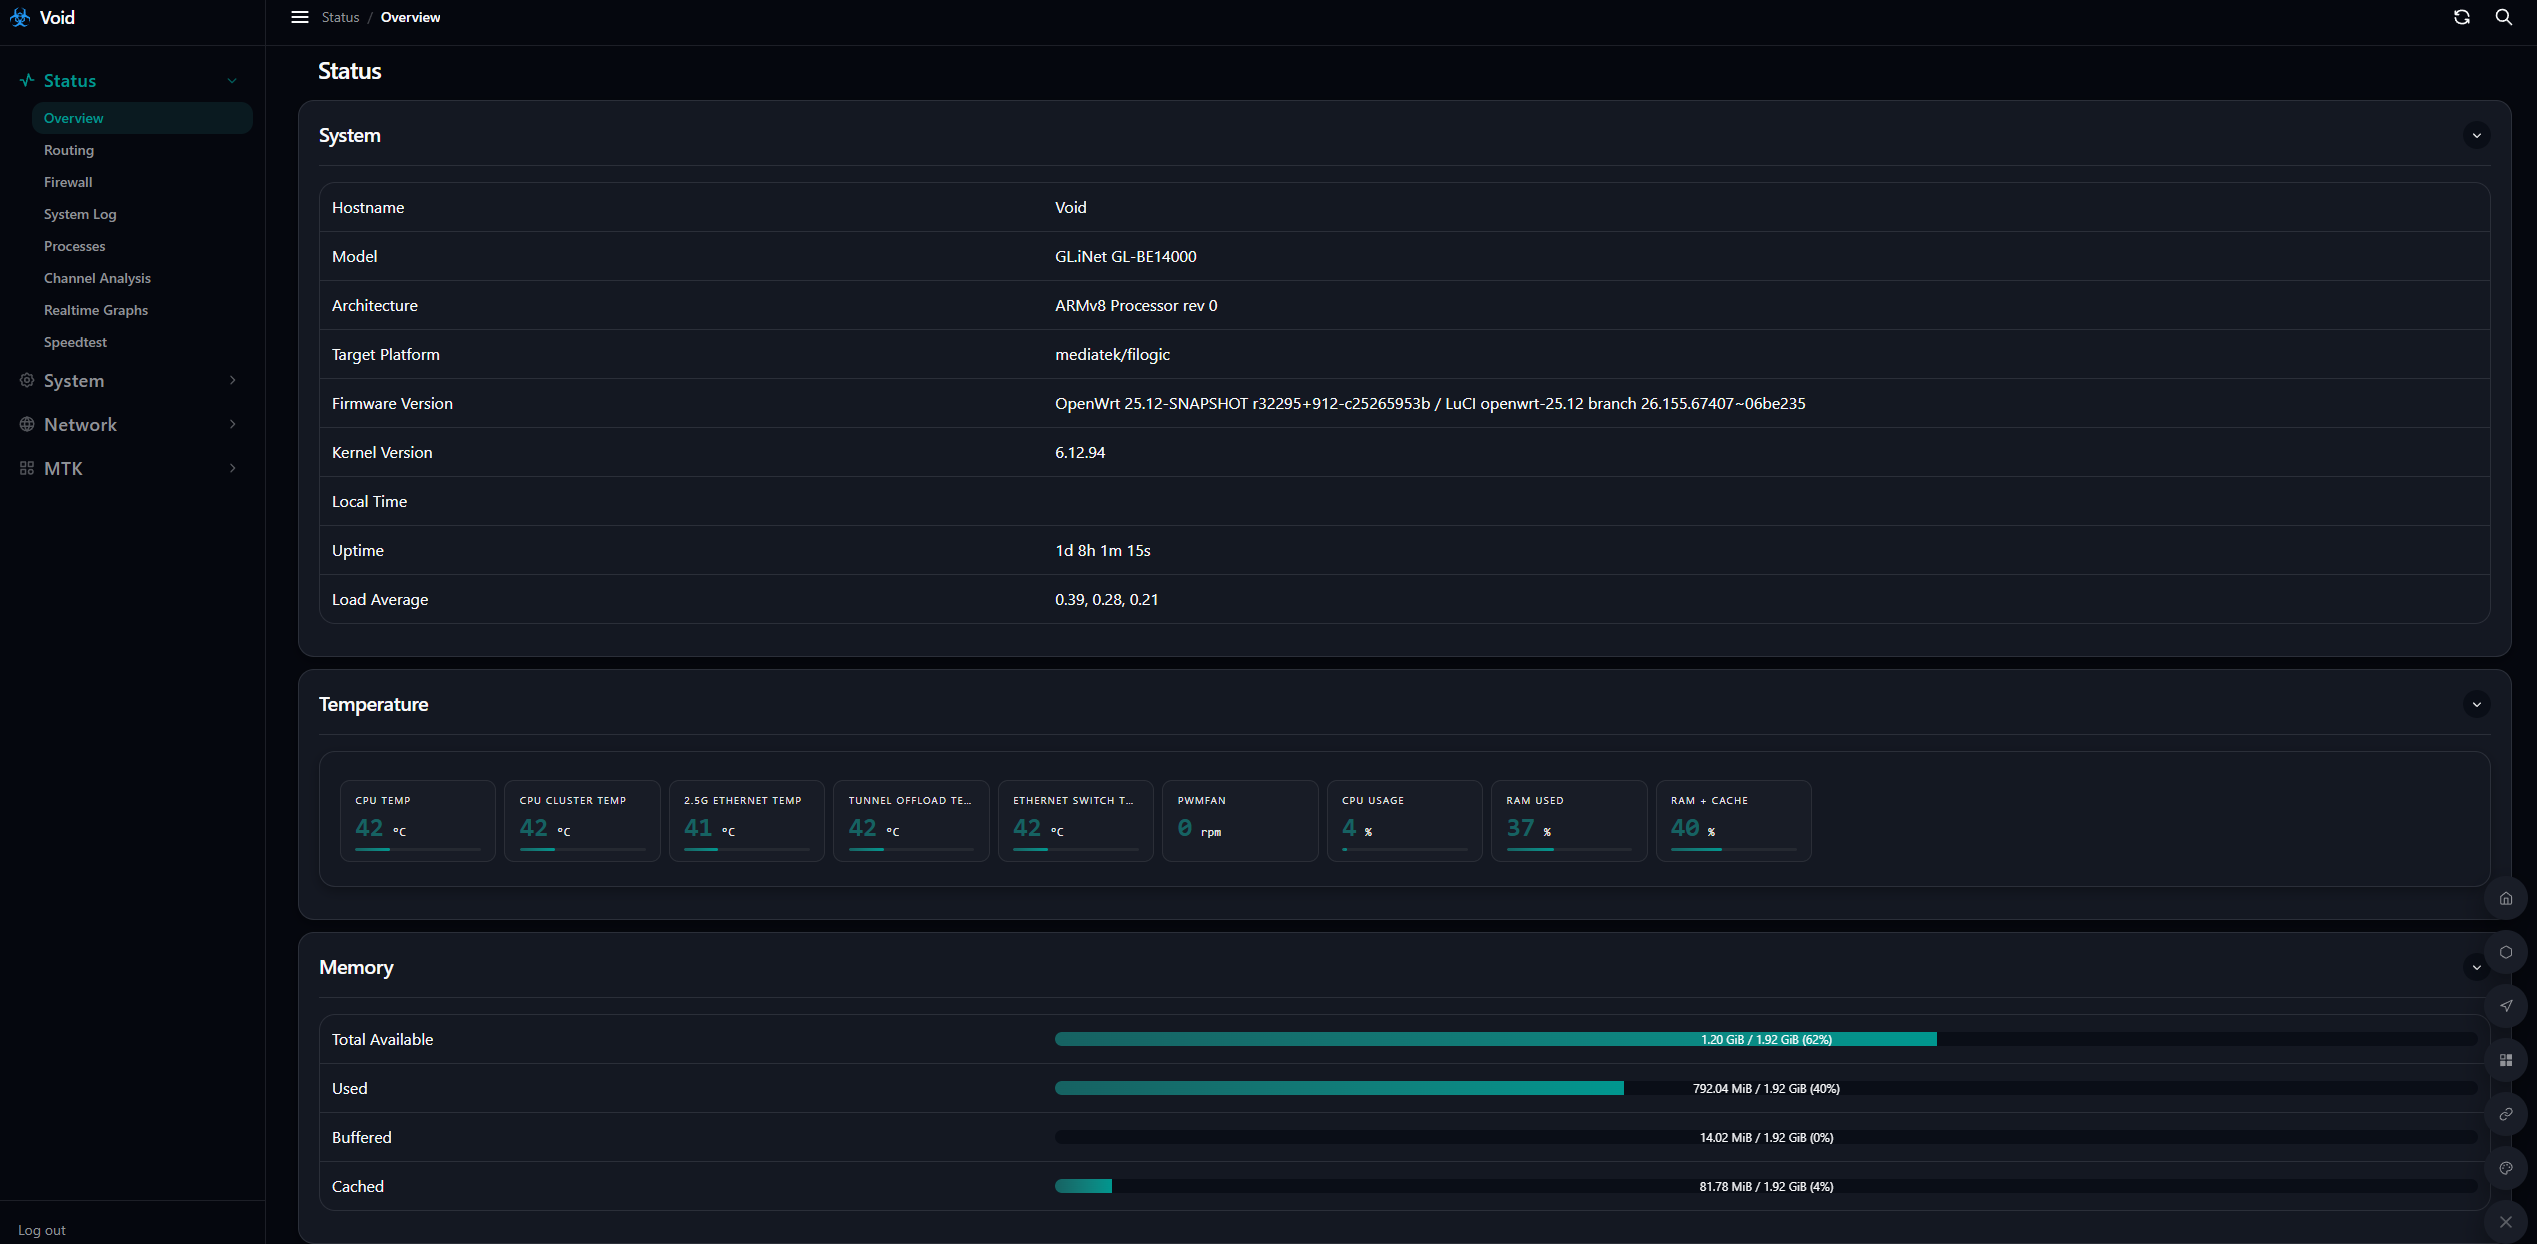
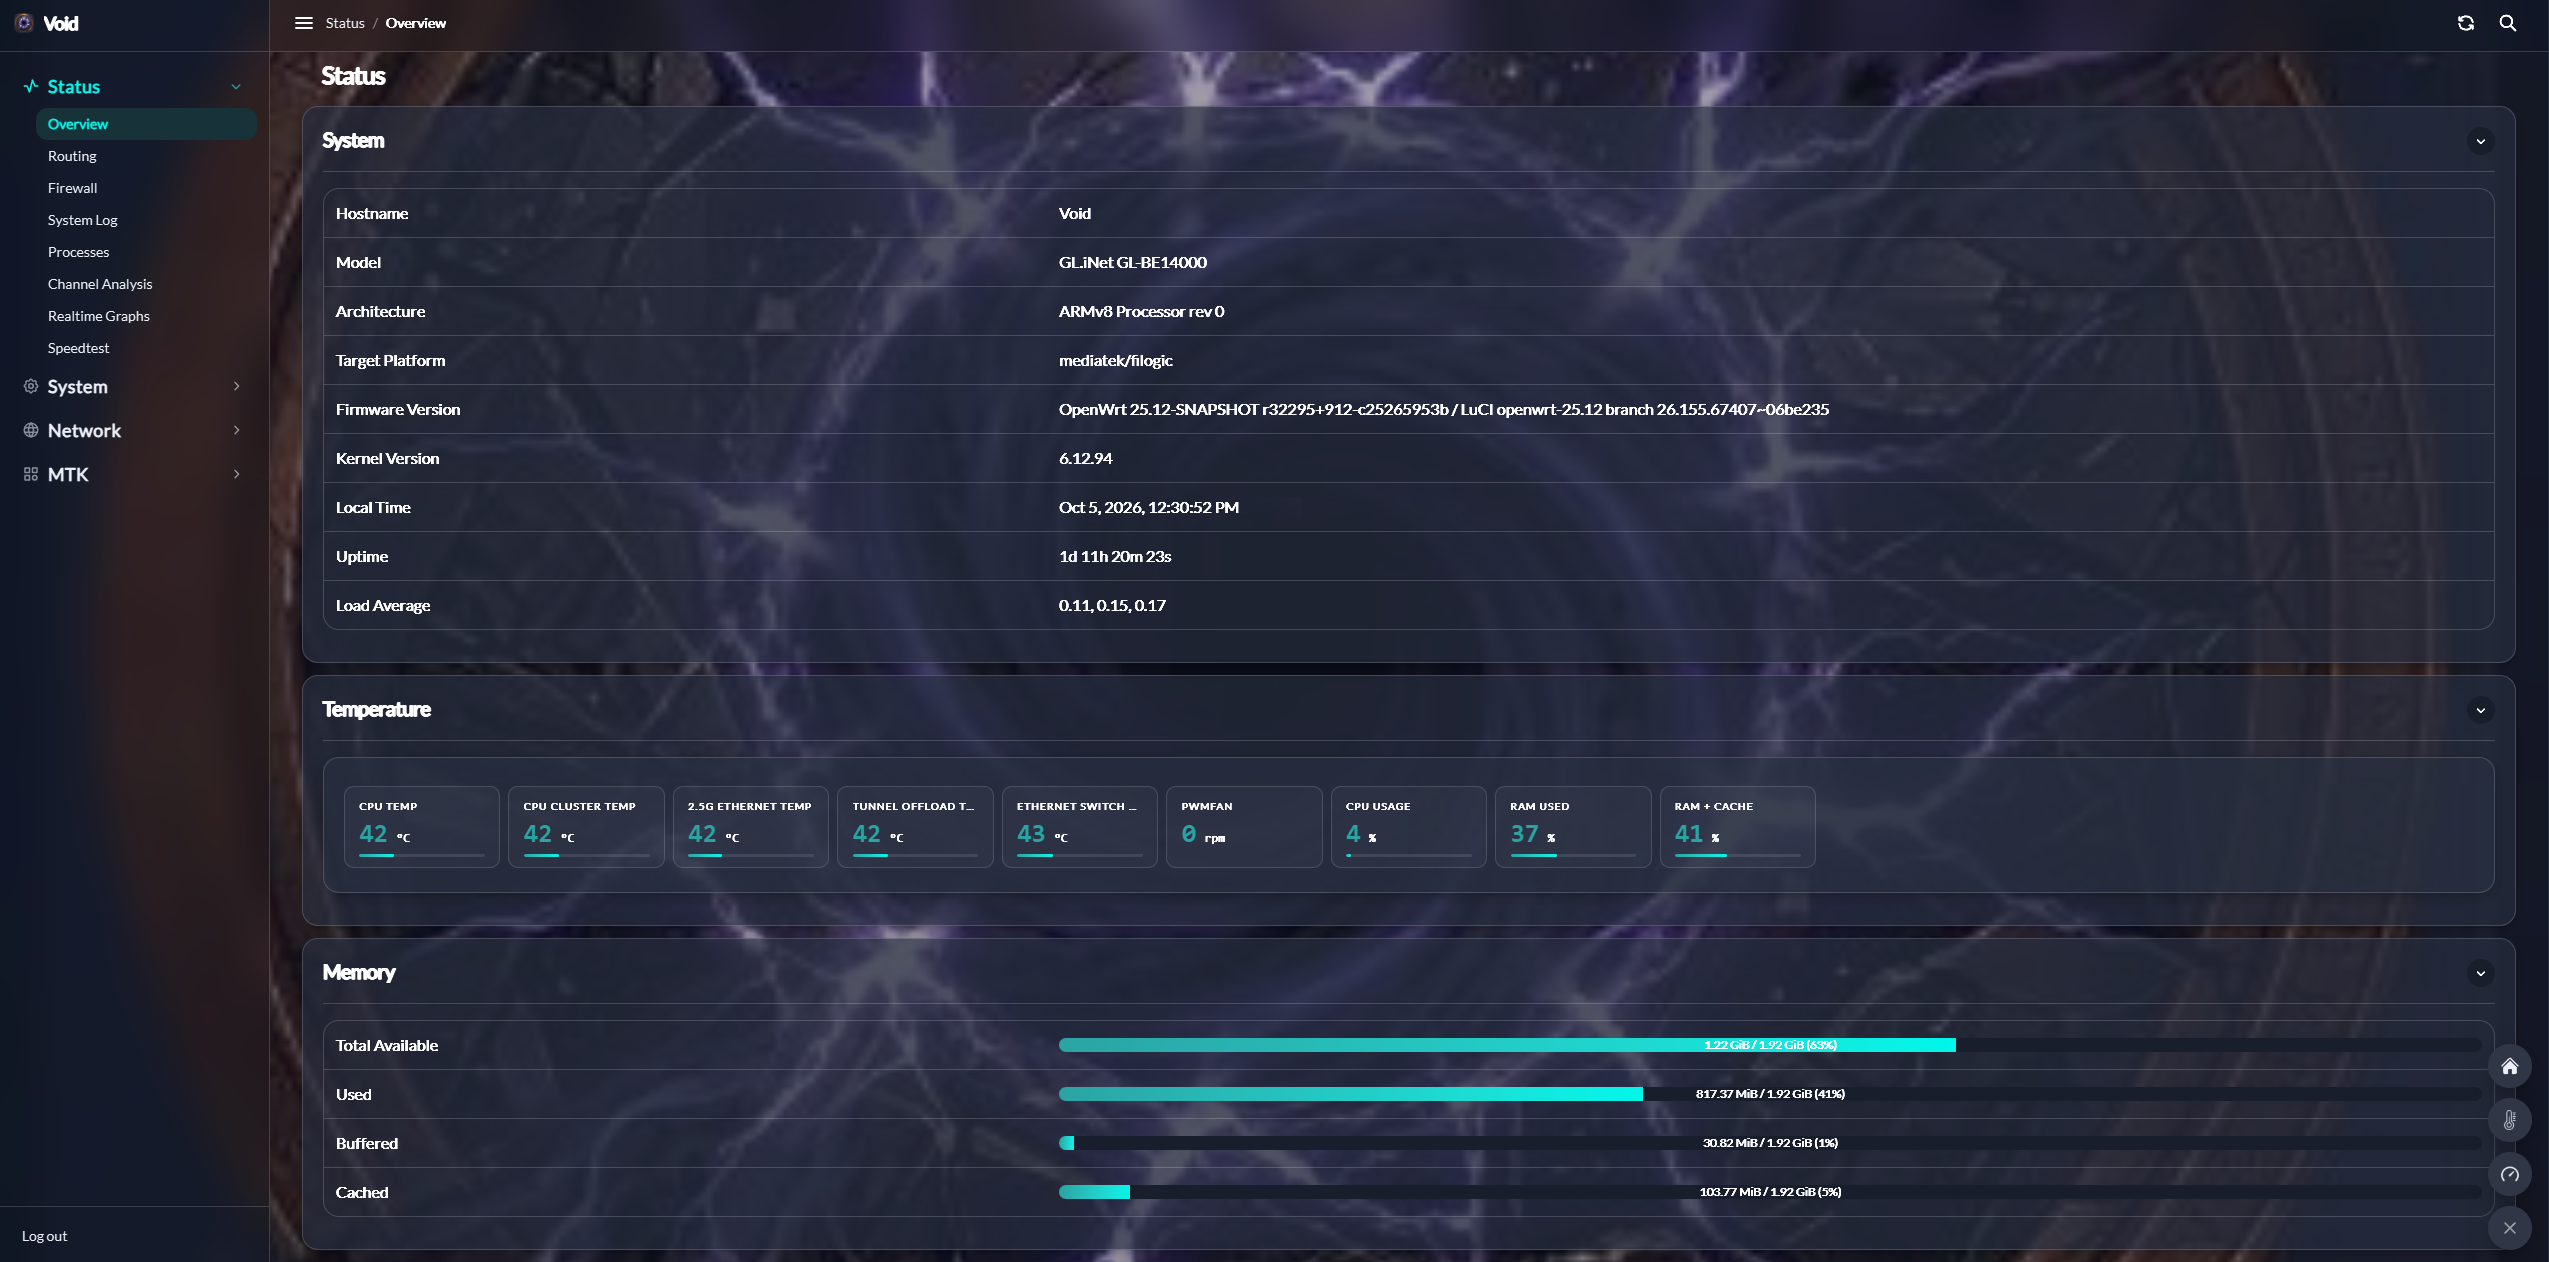
Update 4.11 status screenshot

diff --git a/README.md b/README.md
@@ -791,11 +791,11 @@ Everything above was measured on firmware 4.9.1. The Flint 4 now runs **GL.iNet 
 - **On-router benchmarks** — storage, memory and crypto results, including how the Flint 4 compares with the Flint 2 and other GL.iNet routers, are in Section 8.
 - **Fan and temperatures** — the 4.11 betas expose the fan as a standard Linux PWM cooling device and the temperature sensors through the normal hwmon interfaces, which makes monitoring simpler than before.
 
-**Resting load average.** On 4.9.1 the router idled at a load of about 2.3 with the CPU near zero (Section 10); on the 4.11 beta it idles at about 0.25. Load figures on this router now track real work, which is why the sustained-run numbers in Section 8 are easier to read than the 4.9.1 ones.
+**Resting load average.** On 4.9.1 the router idled at a load of about 2.3 with the CPU near zero (Section 10); on the 4.11 beta it idles at roughly 0.1–0.3. Load figures on this router now track real work, which is why the sustained-run numbers in Section 8 are easier to read than the 4.9.1 ones.
 
-The same LuCI Status page on the 4.11 beta, after a day and eight hours of uptime — OpenWrt 25.12-SNAPSHOT on Linux 6.12.94, a load average of 0.39 / 0.28 / 0.21, 41–42°C on every sensor, 4% CPU and 37% RAM used:
+The same LuCI Status page on the 4.11 beta, after a day and eleven hours of uptime — OpenWrt 25.12-SNAPSHOT on Linux 6.12.94, a load average of 0.11 / 0.15 / 0.17, 42–43°C on every sensor, 4% CPU and 37% RAM used:
 
-![LuCI Status page on the 4.11 beta: OpenWrt 25.12, Linux 6.12.94, low load, 41–42°C](images/flint4-luci-status-4-11-beta.png)
+![LuCI Status page on the 4.11 beta: OpenWrt 25.12, Linux 6.12.94, low load, 42–43°C](images/flint4-luci-status-4-11-beta.png)
 
 **A practical note for LuCI users.** On 4.11, the GL.iNet admin panel is where Wi-Fi and acceleration settings are managed. LuCI is still there and works well for everything else, but for those two areas I make changes in the GL.iNet panel rather than through LuCI's lower-level pages for the same settings.
 
